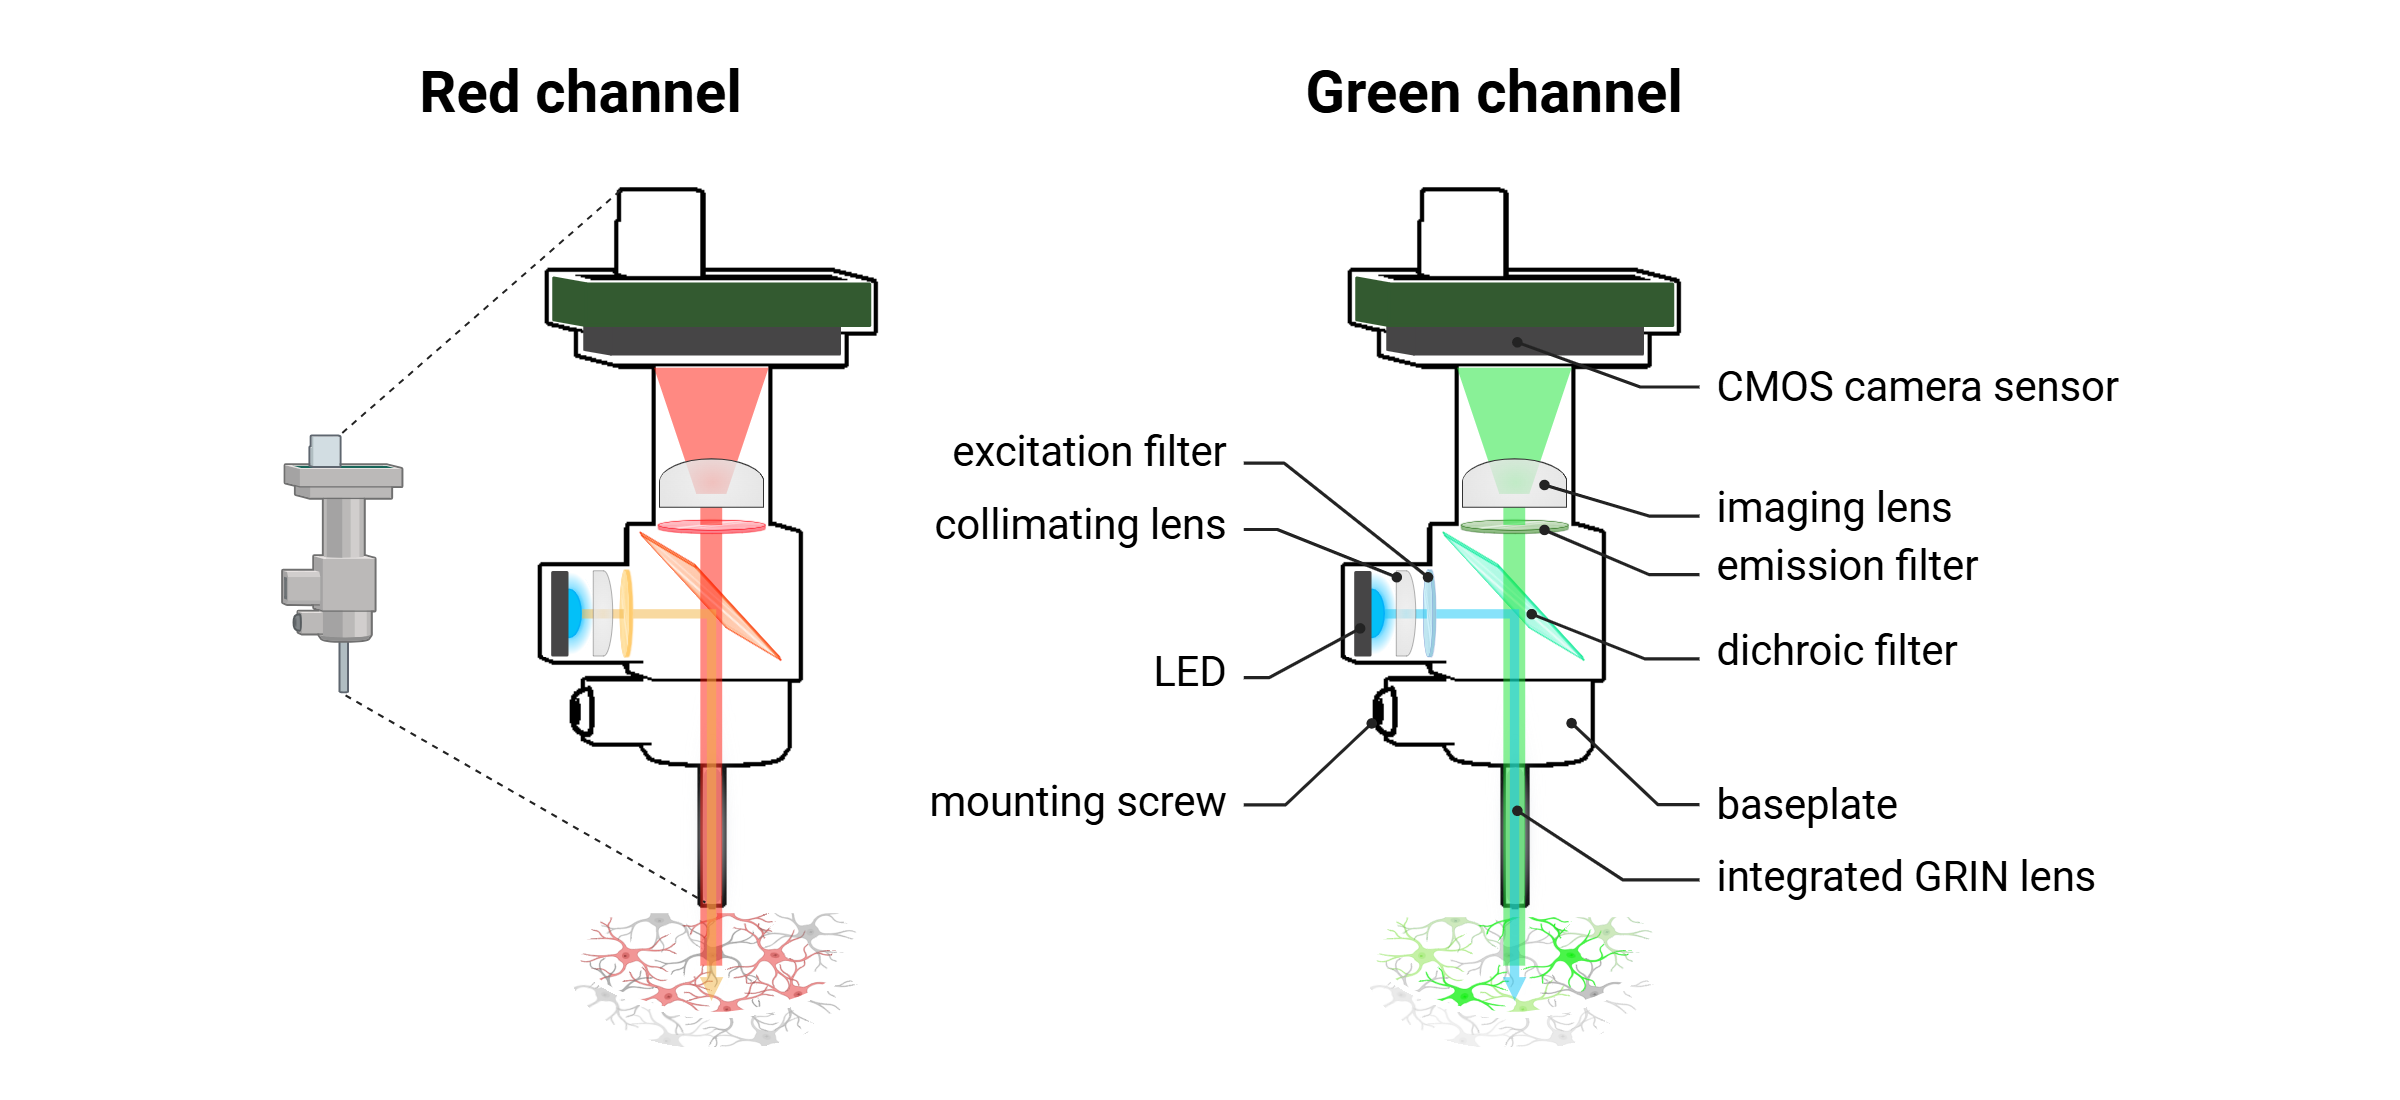
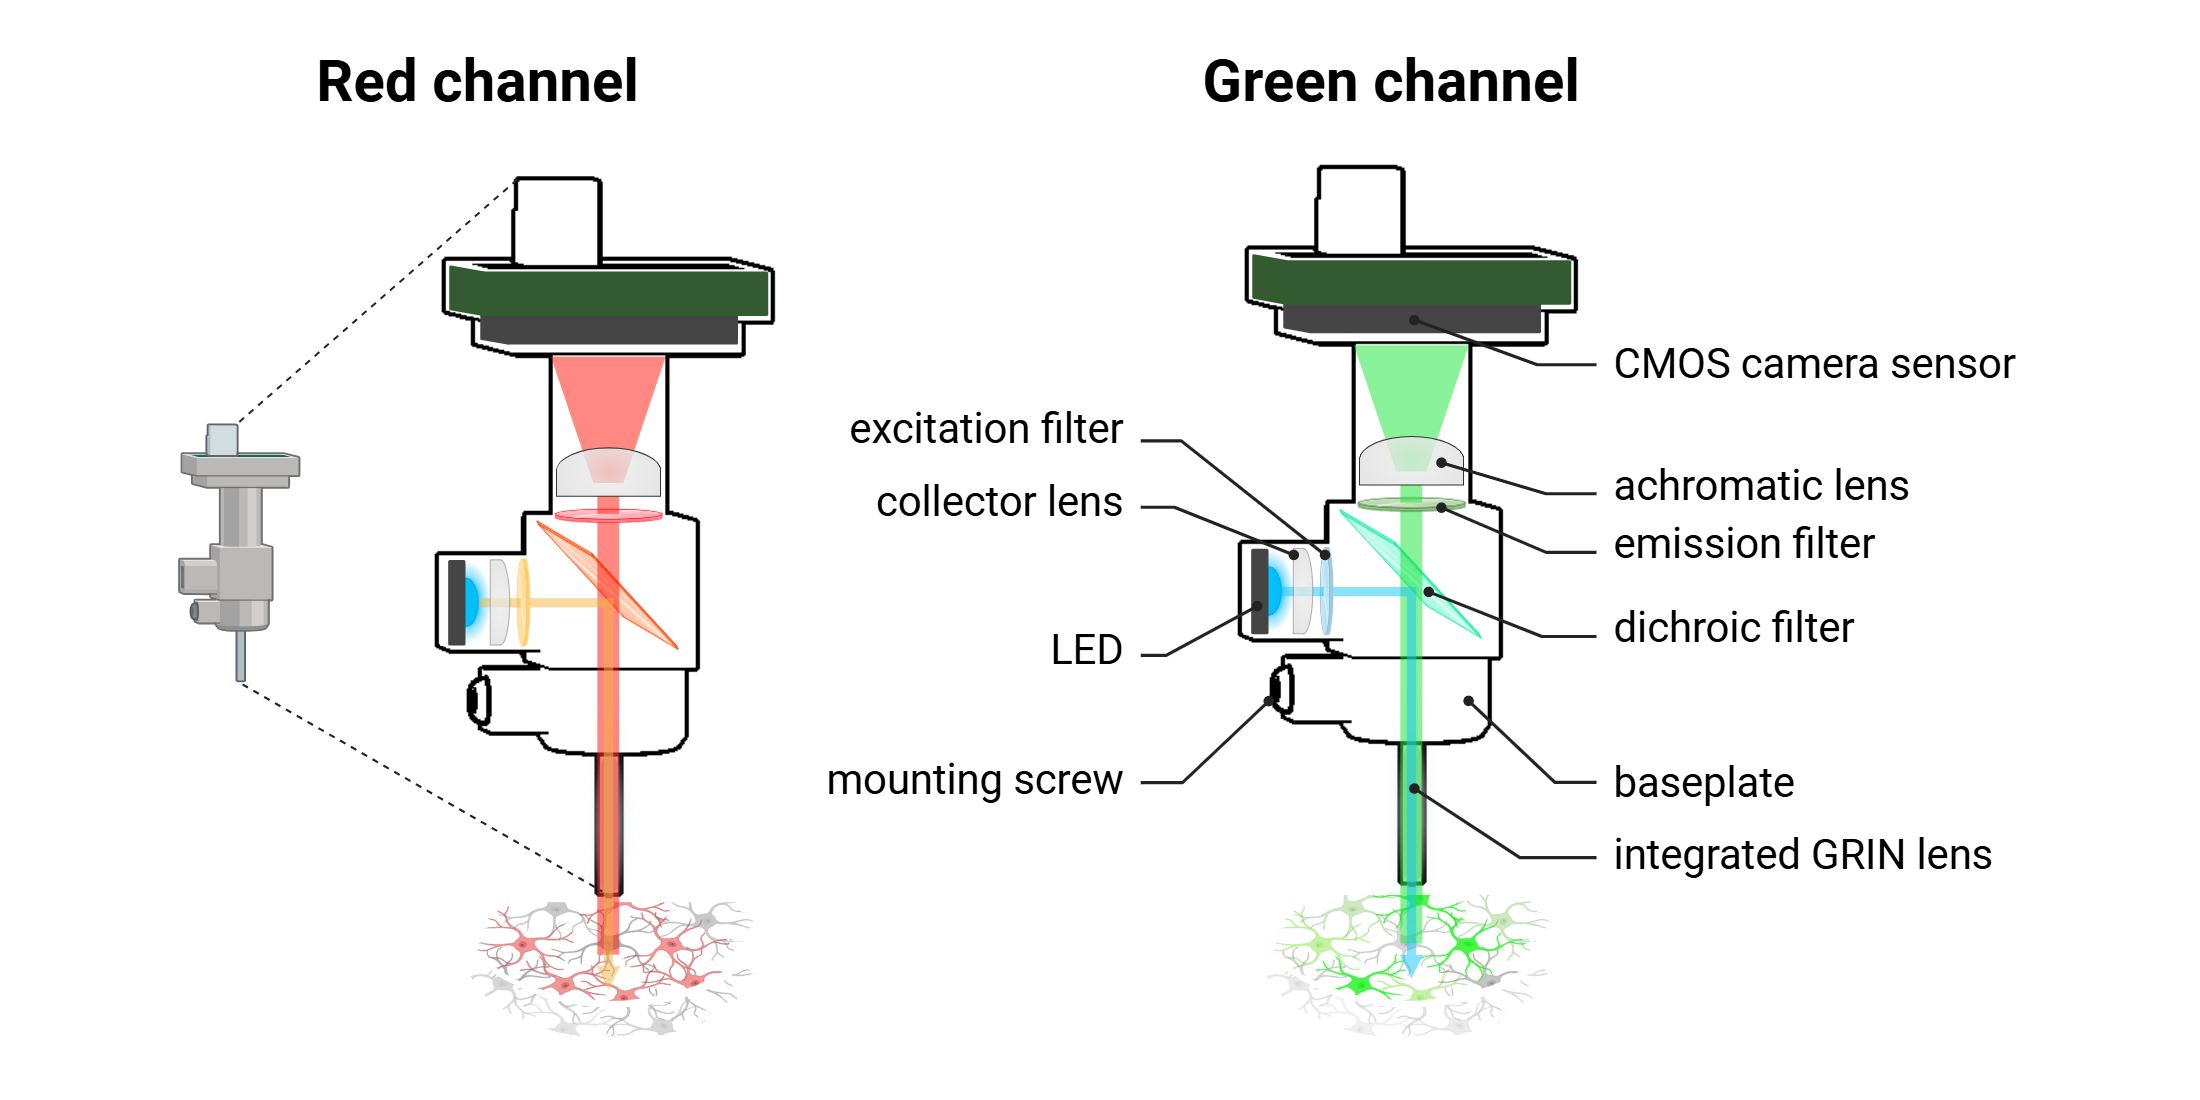
index

diff --git a/docs/source/4-nVue-nVision/best-practices.rst b/docs/source/4-nVue-nVision/best-practices.rst
@@ -1,2 +1,51 @@
 nVue-nVision - Best practices
 =============================
+
+Intracranial viral injection
+----------------------------
+- **Use precise stereotaxic targeting**: Accurate targeting is essential for reproducible biosensor expression. Begin by properly securing the animal in the stereotaxic frame and ensure flat skull positioning by aligning bregma and lambda along the same dorsoventral plane. To confirm correct antero-posterior and medio-lateral alignment, measure and compare coordinates from both landmarks, refining head tilt or rotation as needed.
+- **Validate biosensor expression:** Optimization of AAV delivery parameters, including viral titer, injection volume, and serotype, is essential to achieve robust yet non-toxic expression of genetically encoded biosensors. This optimization step requires post-mortem assessment of native fluorescent signal intensity in the injected region. Direct visualization of the reporter enables evaluation of expression strength, distribution, and potential off-target effects. If suboptimal expression is observed, adjustments to titer or injection parameters should be made accordingly.
+- **Validate and refine injection coordinates:** To ensure accurate delivery of the AAV vector into the intended brain structure, post-mortem analysis is also used to confirm anatomical targeting. Fluorescent reporter visualization in brain sections allows precise verification of needle placement and spread. If signal localization is misaligned with the region of interest, injection coordinates should be refined in subsequent cohorts. This step is particularly critical when targeting small or deep structures, where small deviations can result in non-specific expression or ineffective imaging.
+
+Intracranial lens implantation
+------------------------------
+- **Use precise stereotaxic targeting**: Accurate targeting is essential for reproducible biosensor expression. Begin by properly securing the animal in the stereotaxic frame and ensure flat skull positioning by aligning bregma and lambda along the same dorsoventral plane. To confirm correct antero-posterior and medio-lateral alignment, measure and compare coordinates from both landmarks, refining head tilt or rotation as needed.
+- **Use digital and motorized stereotaxic systems for precision:** Incorporate digital stereotaxic frames to obtain real-time coordinate readouts, increasing targeting reproducibility and reducing operator variability. When available, utilize motorized stereotaxic arms for highly precise coordinate refinement and controlled, programmable injection speeds. These systems allow for stepwise delivery, consistent needle advancement, and reduced mechanical artifacts.
+- **Validate implantation depth and alignment:** Confirm lens placement post-mortem using immunohistochemistry. Validate targeting accuracy and adjust coordinates for future experiments as needed.
+- **Plan lens depth and trajectory based on imaging target**: Use stereotaxic brain atlases to determine the exact depth and position of the region of interest. To avoid mechanical compression and ensure optimal image quality, adjust the implantation depth by subtracting ~150 μm from the target region's dorsal coordinate. This offset accounts for the focal distance of the GRIN lens, ensuring that the miniscope's imaging plane aligns with the desired neuronal layer, which lies just beneath the lens tip.
+- **Perform craniotomy with precision and minimal trauma:** Drill a clean, appropriately sized craniotomy directly above the target site. Use a dental drill at low speed with intermittent irrigation to avoid overheating. Carefully remove the skull flap using fine forceps or a microsurgical hook.
+- **Select an appropriate surgical approach:** Choose the surgical technique, whether scalpel incision, guide needle insertion, or tissue aspiration, based on the depth, anatomy, and accessibility of the target brain region, as well as the diameter and length of the GRIN lens.
+- **Implant lens slowly and steadily:** Lower the GRIN lens into the brain at a rate of ~100–200 μm per 30–60 seconds.
+- **Secure the lens and align the baseplate:** Fix the baseplate-integrated lens in place using UV-curable or quick-setting dental cement, ensuring no movement during curing.
+- **Protect the implant post-surgery:** Cover the exposed lens with a protective cap to prevent contamination and damage. Use the removable dummy miniscope for handling habituation and added mechanical protection during recovery.
+- **Allow post-operative recovery before imaging:** Provide analgesics and monitor animals closely for 7–14 days post-surgery. Allow for wound healing, inflammation resolution, and glial response attenuation, which are necessary for obtaining stable, high-quality imaging signals.
+
+Image acquisition
+-----------------
+- **Mount/unmount miniscope carefully:** o reduce stress-related movement artifacts and behavioral variability, habituate the animal to the mounting and unmounting procedure through repeated mock sessions prior to actual imaging. Consistent handling and gradual exposure to the device help minimize stress responses and promote stable behavior during recording.
+- **Calibrate imaging parameters per session:** Adjust LED power, sensor gain, exposure time, and focal plane using imaging software. Avoid overexposure and photobleaching.
+- **Maintain consistency across animals/sessions:** Use fixed imaging settings for longitudinal comparisons. Log parameters for traceability.
+- **Minimize session duration and light intensity:** To reduce the risk of photobleaching and phototoxicity, limit continuous imaging sessions to the minimum duration necessary for data collection. Avoid excessive LED intensity by adjusting the excitation power to the lowest level that provides sufficient signal-to-noise ratio. For extended recordings exceeding 15 minutes, implement brief recovery intervals, 5-minute break every 15 minutes, to allow tissue cooling and fluorophore recovery.
+- **Synchronize with behavior:** Integrate video tracking or TTL signals for timestamped alignment of fluorescence data with behavioral events.
+
+Behavioral consistency and environmental control
+------------------------------------------------
+- **Standardize task timing and design:** Ensure consistency in task type (open field, T-maze), stimulus delivery, and inter-trial intervals.
+- **Control for circadian and physiological variables:** Perform imaging at the same time of day. Monitor and account for factors such as satiety, stress, or fatigue.
+- **Minimize interference with implant:** Use arenas that reduce risk of the animal bumping, dislodging, or contaminating the baseplate.
+- **Protect the implant between sessions:** Use baseplate covers or head-mounted shields to prevent contamination or mechanical damage.
+
+Data processing and quantification
+----------------------------------
+- **Perform motion correction and preprocessing:** Use IDPS, CaImAn, or CNMF-E for drift correction and background subtraction.
+- **Segment ROIs with standardized pipelines:** Apply consistent settings for automated or manual segmentation. Save templates for reuse across sessions.
+- **Normalize fluorescence traces:** Calculate ΔF/F using appropriate baselines.
+- **Denoise and align to behavior:** Apply filtering, deconvolution (if needed), and align traces to behavior using synchronized timestamps or triggers.
+- **Ensure repeatability and transparency:** Document all parameters. Version-control analysis scripts and share as open-source where possible.
+
+Experimental controls and validation
+------------------------------------
+- **Conduct pilot experiments:** Validate vector efficacy, imaging feasibility, behavior compatibility, and data quality before scaling up.
+- **Include matched controls:** Match for age, sex, strain, and condition when comparing across groups or treatment conditions.
+- **Perform regular post hoc validation:** Confirm expression pattern, GRIN lens location, and tissue health using IHC, DAPI staining, or confocal imaging.
+- **Log comprehensive metadata:** Record animal ID, age, weight, surgical notes, viral info, imaging settings, behavioral metrics, and experiment date/time.

diff --git a/docs/source/4-nVue-nVision/technology-overview.rst b/docs/source/4-nVue-nVision/technology-overview.rst
@@ -132,10 +132,9 @@ Hardware
 
 A miniscope is a **miniaturized epifluorescence microscope** engineered to be compact and lightweight, allowing it to be
 mounted onto the head of a freely moving mouse with minimal discomfort or disruption of natural behavior. As with conventional
-fluorescence microscopes, the miniscope includes an **excitation light source**, (high-power LED). The emitted light is first
-passed through a **collimating lens**, which converts the divergent beam into parallel light rays to ensure uniform illumination.
-This collimated light is then passed through an **excitation filter**, which spectrally selects the appropriate wavelength required
-to excite the targeted fluorescent reporter.
+fluorescence microscopes, the miniscope includes an **excitation light source**, (high-power LED). The divergent light emitted from the LED
+is first directed by a collector lens, which focuses and channels the beam into the optical system. This incident light
+is then passed through an **excitation filter**, which spectrally selects the appropriate wavelength required to excite the targeted fluorescent reporter.
 The refined excitation light is reflected downward by a **dichroic mirror**, which is specifically designed to **reflect excitation**
 **wavelengths** while transmitting longer-wavelength emitted fluorescence. The directed excitation light then enters the brain
 through the objective lens, which in miniscopes is typically a **gradient-index (GRIN) lens**. This GRIN lens has a radially
@@ -145,8 +144,11 @@ Upon excitation, fluorophores expressed in neurons or surrounding tissue emit ph
 emission spectra. These emitted photons travel back through the same GRIN lens and are transmitted through the dichroic mirror,
 which now functions as a **pass-through filter** for the emission wavelengths. The fluorescence signal is subsequently passed
 through an **emission filter**, which further isolates the desired emission band while eliminating residual excitation light.
-Finally, the filtered emission is focused by an imaging lens onto a CMOS camera sensor, producing a high-resolution
-two-dimensional image representing the spatial distribution of fluorescence within the field of view.
+Finally, the filtered emission light is directed through an **achromatic imaging lens**, which focuses the signal onto a CMOS
+camera sensor positioned at the distal end of the miniscope. This configuration enables the acquisition of a high-resolution,
+two-dimensional fluorescence image that reflects the spatial distribution and temporal dynamics of neural activity within
+the defined field of view. The achromatic lens corrects for chromatic aberration across the emission spectrum, ensuring
+sharp image quality and signal fidelity across different fluorescence channels.
 
 Workflow for in vivo miniscope imaging
 ^^^^^^^^^^^^^^^^^^^^^^^^^^^^^^^^^^^^^^

diff --git a/docs/source/2-IVIS-Spectrum/best-practices.rst b/docs/source/2-IVIS-Spectrum/best-practices.rst
@@ -24,6 +24,7 @@ Imaging optimization
 - **Start with a pilot experiment:** Define signal kinetics and substrate/probe timing, especially for bioluminescence imaging
 - **Avoid imaging during circadian fluctuations:** Image animals at consistent times of day to reduce variability in metabolism and gene expression
 - **Allow imaging system warm-up:** Let CCD cameras and optics stabilize thermally for consistent sensitivity and minimal signal drift
+- **Log comprehensive metadata:** Record animal ID, age, weight, reporter info, imaging settings, and experiment date/time.
 
 Fluorescence-specific tips
 --------------------------
